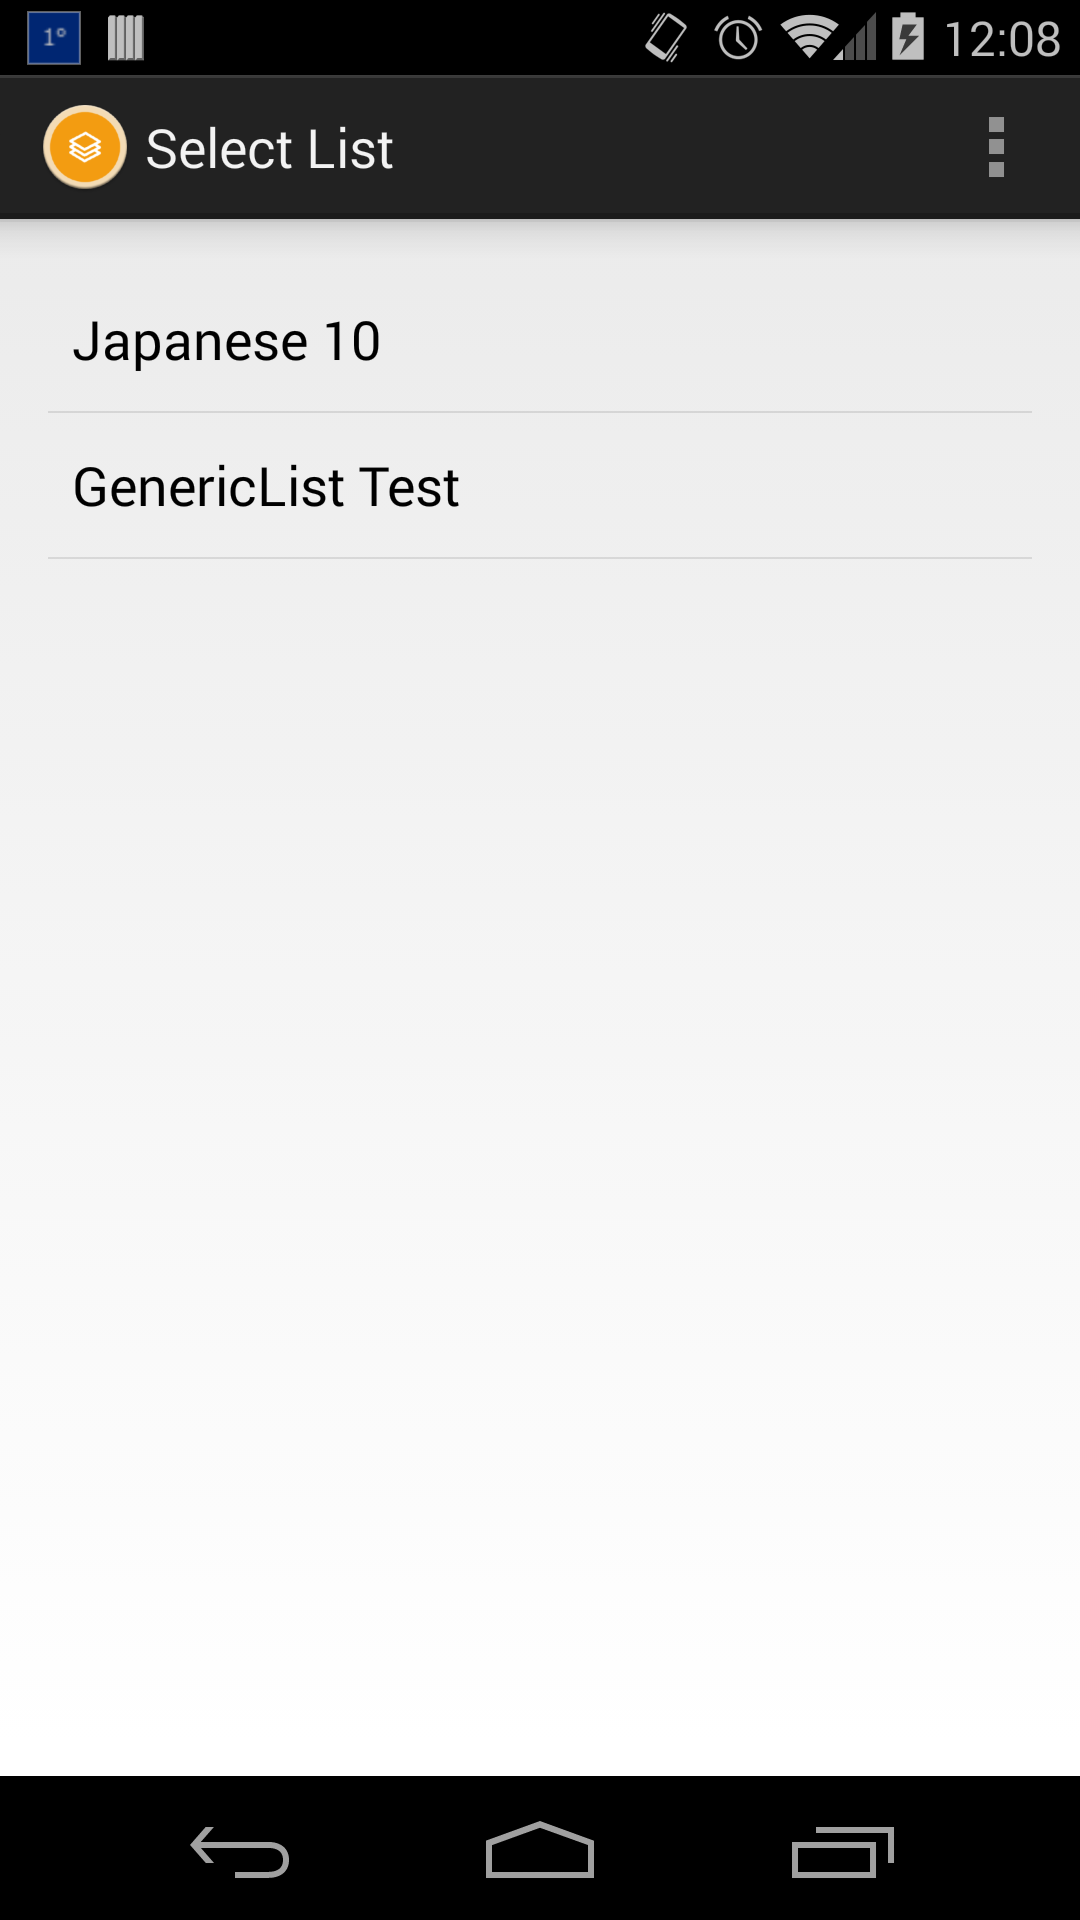
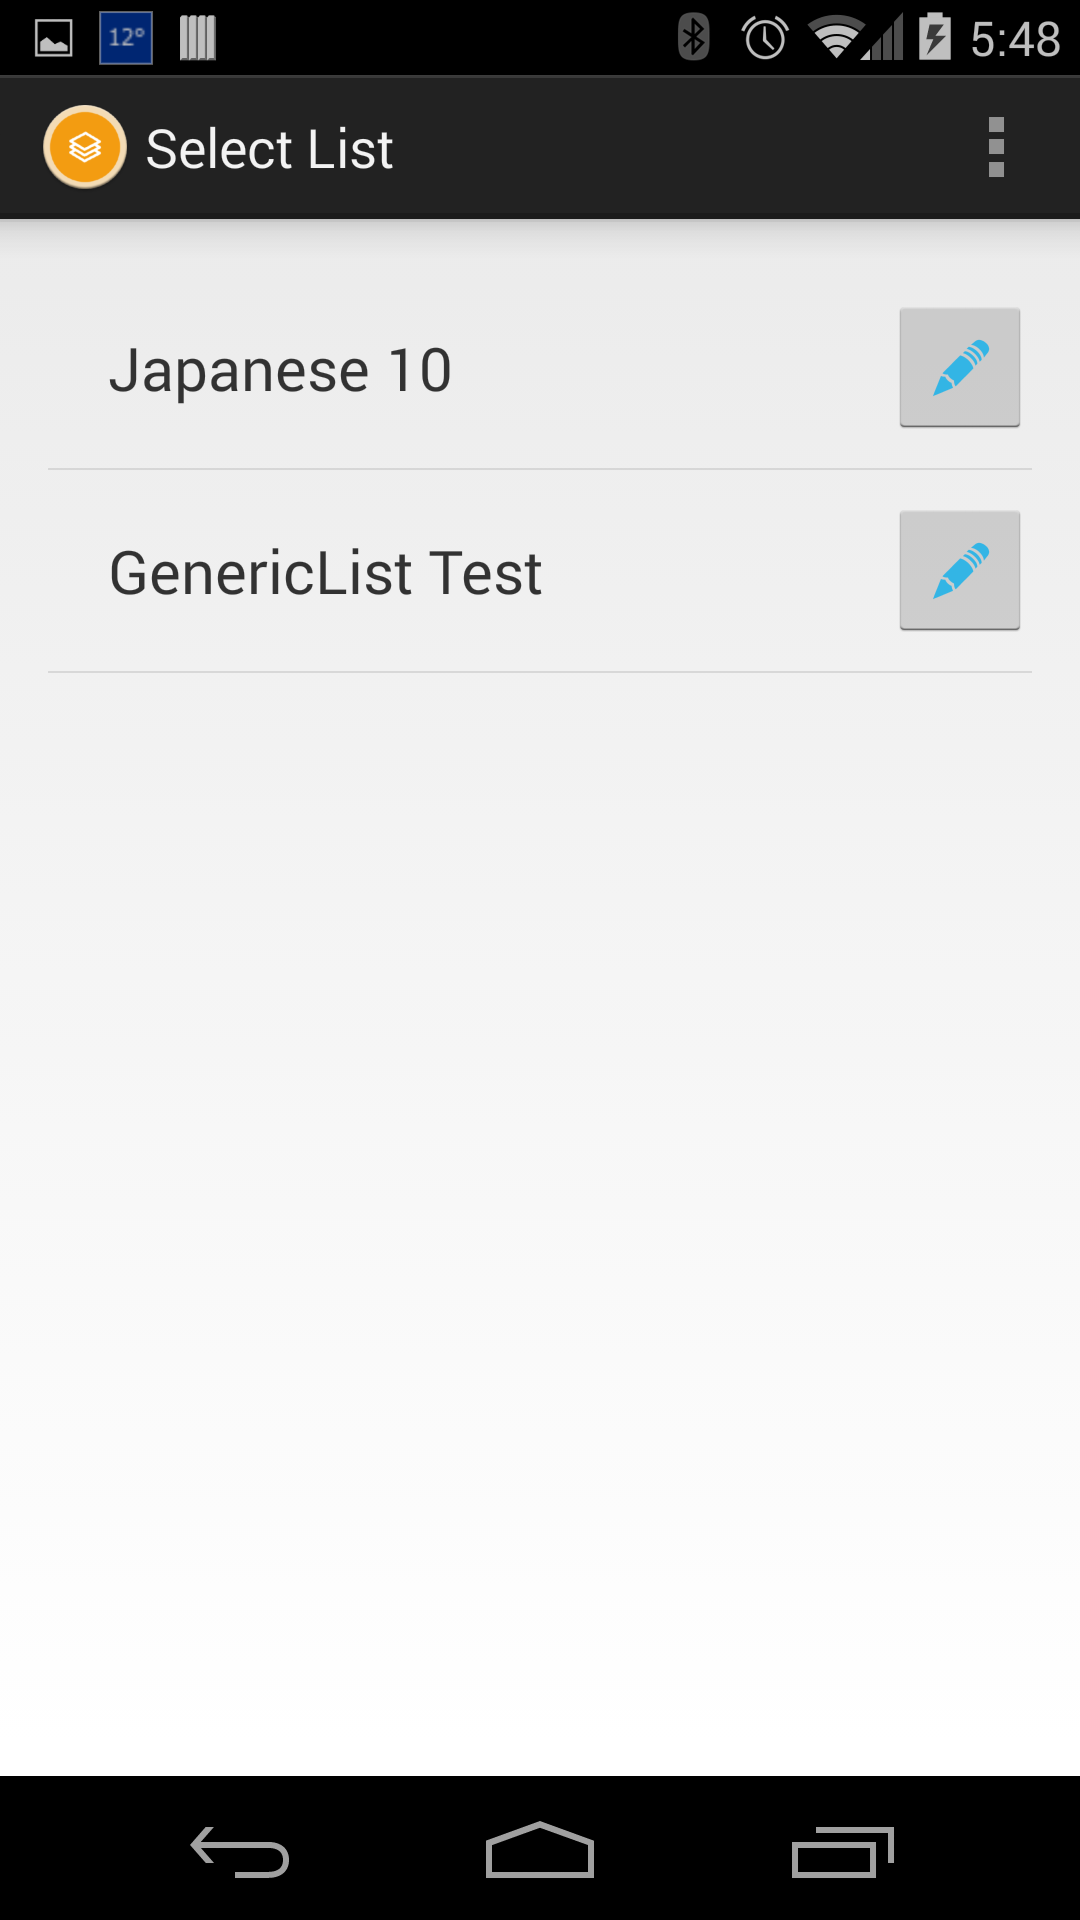
Updated screenshots

diff --git a/README.md b/README.md
@@ -17,3 +17,5 @@ Allow users to create vocabulary lists, and provide an interface for studying th
 ![List Data](/screenshots/03_list_data.png "List Data")
 ![Quiz](/screenshots/04_quiz.png "Quiz")
 ![Session Results](/screenshots/05_session_results.png "Session Results")
+![Edit List](/screenshots/06_edit_list.png "Edit List")
+![Edit Phrase](/screenshots/07_edit_phrase.png "Edit Phrase")
